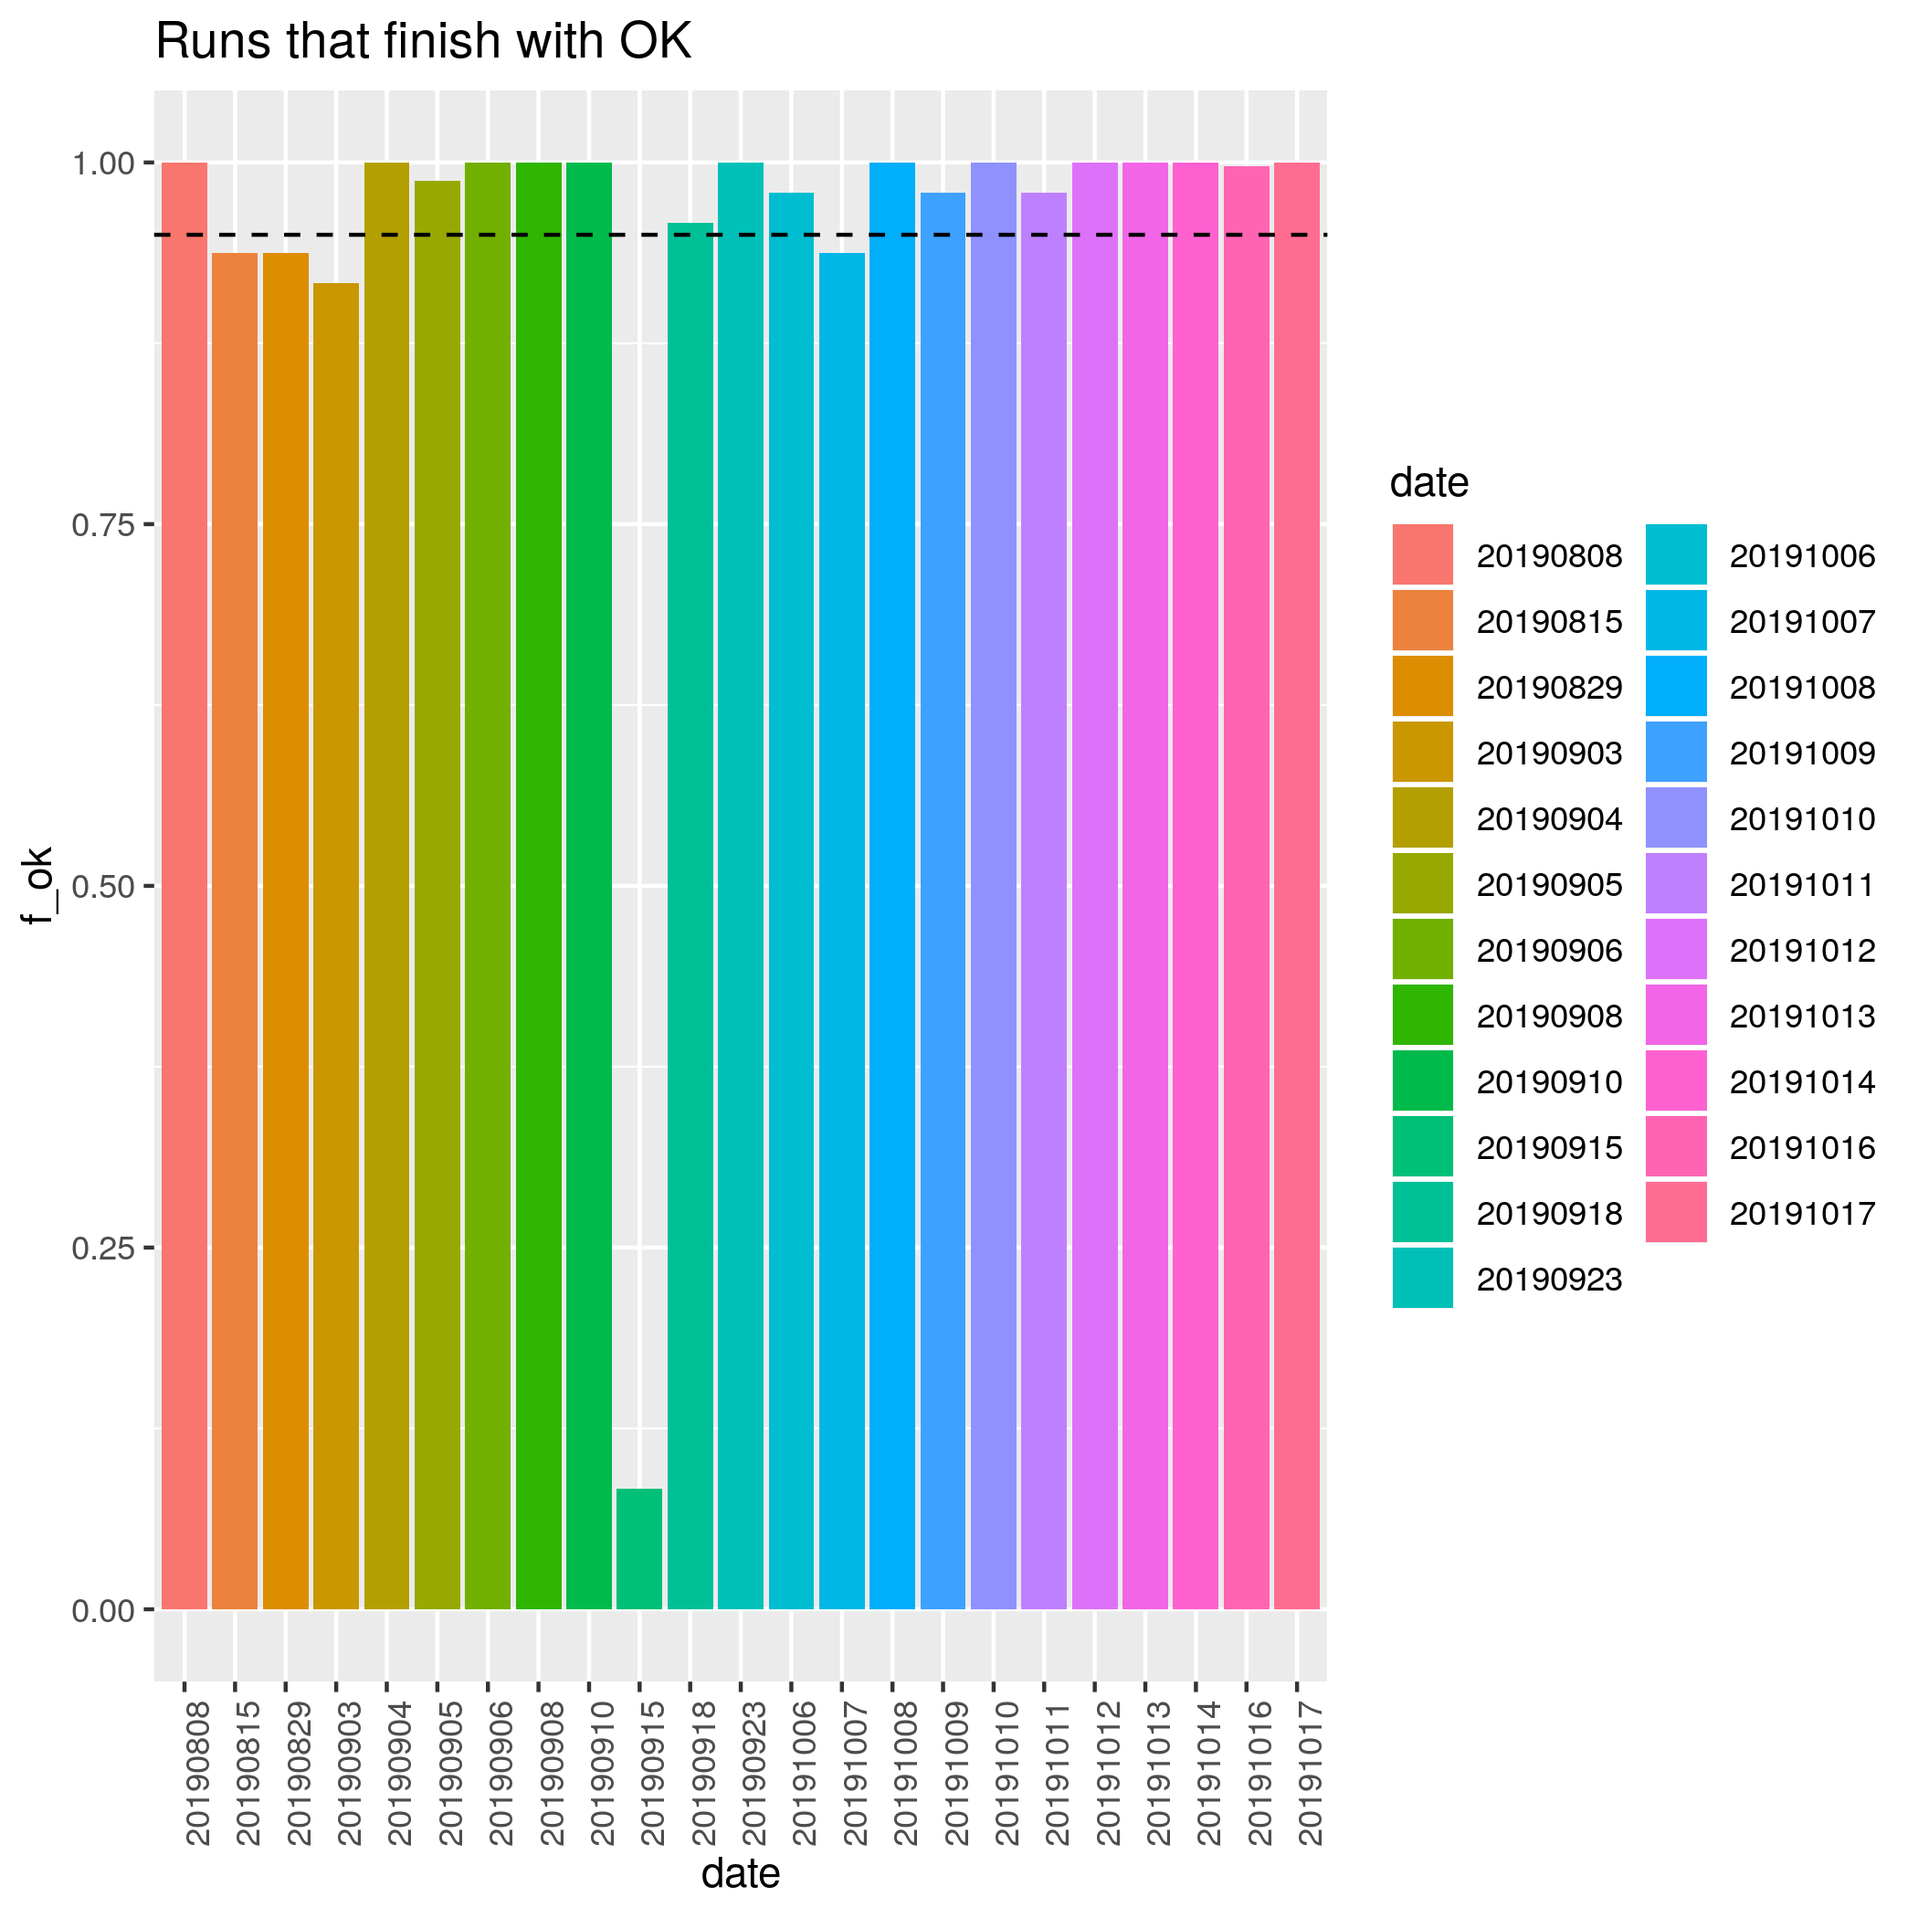
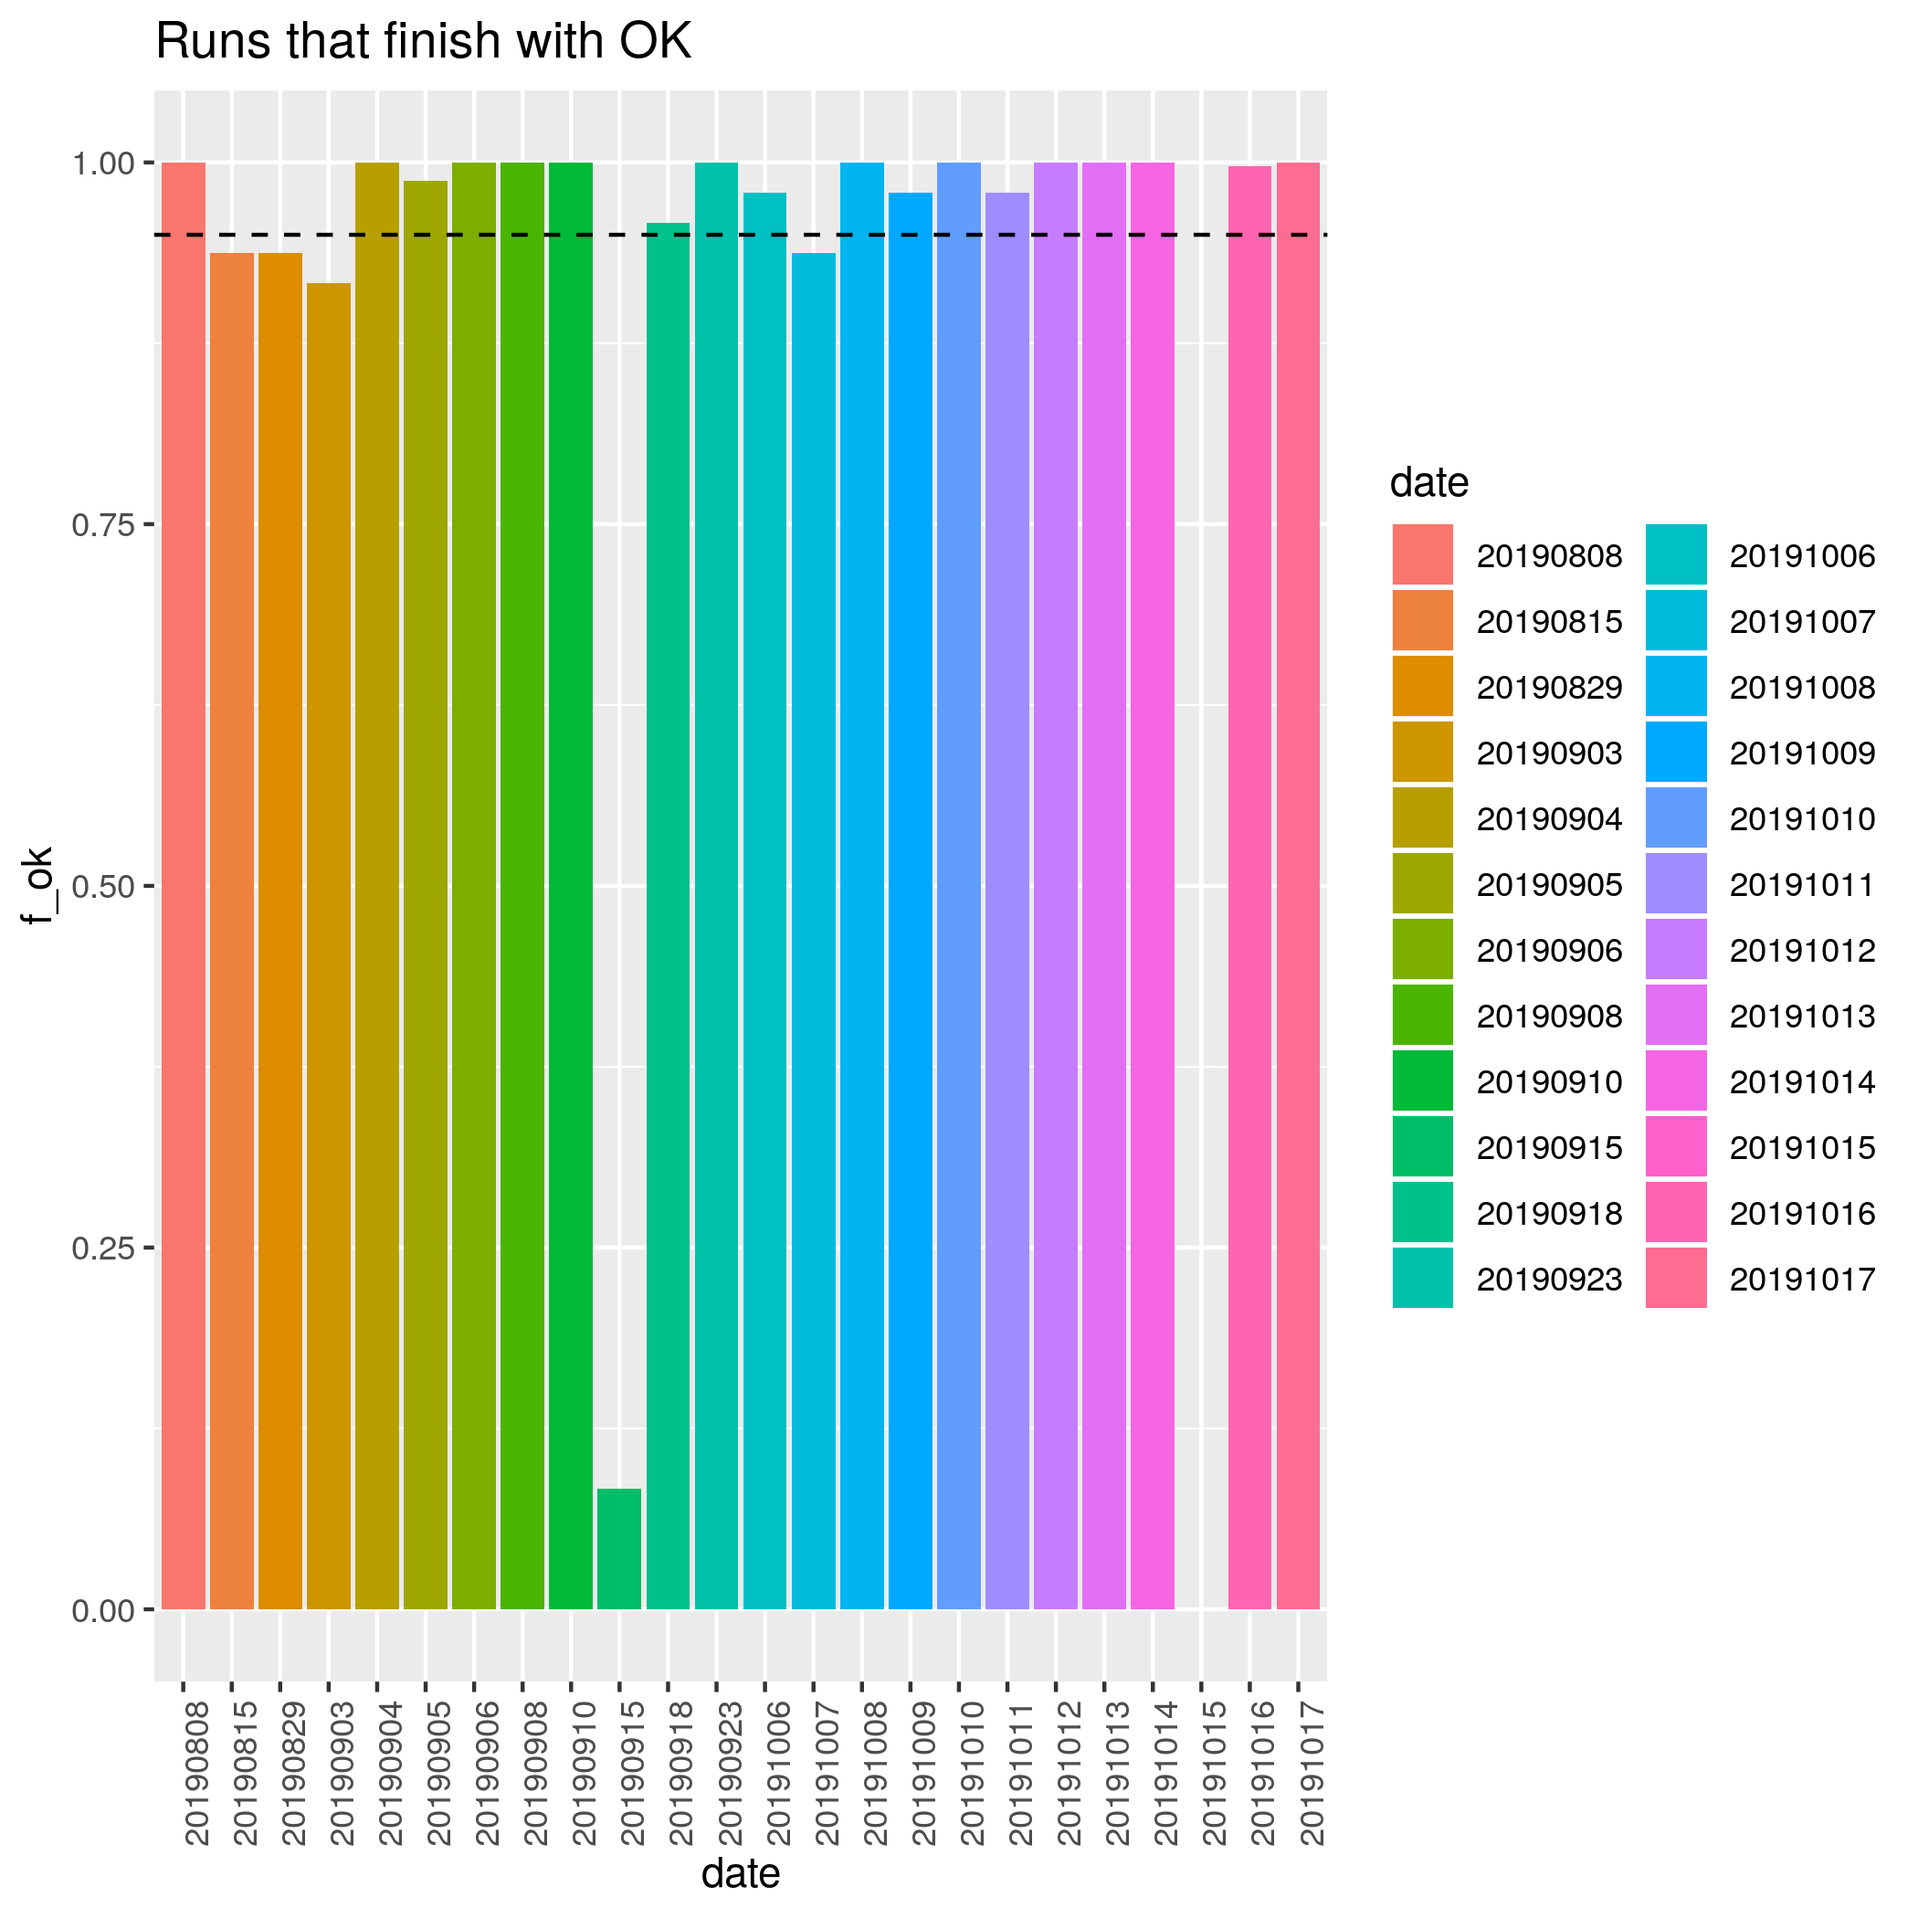
Add CSVs

diff --git a/overview.md b/overview.md
@@ -1,25 +1,25 @@
-|date     |      f_ok|    f_fail|  f_cancel| mean_runtime_hours| crown_age| n_candidates| mutation_rate| mcmc_chain_length| n_particles| n_replicates| mean_n_taxa| mean_ess| perc_low_ess| dna_length|nus           |
-|:--------|---------:|---------:|---------:|------------------:|---------:|------------:|-------------:|-----------------:|-----------:|------------:|-----------:|--------:|------------:|----------:|:-------------|
-|20190808 | 1.0000000| 0.0000000| 0.0000000|          0.6791088|         6|            3|     0.0833333|           1111000|           1|            2|   26.812500| 541.2969|     31.25000|       1000|1,1.5,2,2.5   |
-|20190815 | 0.9375000| 0.0000000| 0.0625000|          1.6287905|         7|            3|     0.0833333|           1111000|           1|            2|   56.750000| 463.0667|     36.66667|       1000|1,1.5,2,2.5   |
-|20190829 | 0.9375000| 0.0625000| 0.0000000|          3.3101975|         6|           40|     0.0833333|           1000000|           1|            2|   26.812500| 421.7337|     39.13043|       1000|1,1.5,2,2.5   |
-|20190903 | 0.9166667| 0.0000000| 0.0833333|          4.1418981|         6|           40|     0.0833333|           1000000|           1|            2|   26.812500| 429.4056|     37.77778|       1000|1,1.5,2,2.5   |
-|20190904 | 1.0000000| 0.0000000| 0.0000000|          0.6348322|         6|            4|     0.0833333|           1000000|           1|            2|   26.812500| 478.9740|     31.25000|       1000|1,1.5,2,2.5   |
-|20190905 | 0.9875000| 0.0125000| 0.0000000|          0.6264041|         6|            4|     0.0833333|           1000000|           1|           10|   28.333333| 502.4483|     28.90295|       1000|1,1.5,2,2.5   |
-|20190906 | 1.0000000| 0.0000000| 0.0000000|          0.3879977|         5|            4|     0.0833333|           1000000|           1|            2|   17.666667| 610.8542|     19.27083|       1000|1,1.5,2,2.5   |
-|20190908 | 1.0000000| 0.0000000| 0.0000000|          0.6437963|         6|            4|     0.0833333|           1000000|           1|            2|   26.812500| 478.9740|     31.25000|       1000|1,1.5,2,2.5   |
-|20190910 | 1.0000000| 0.0000000| 0.0000000|          0.1362500|         6|            4|     0.0833333|           1000000|           1|            2|   26.812500| 583.5312|     16.66667|        100|1,1.5,2,2.5   |
-|20190915 | 0.0833333| 0.9166667| 0.0000000|         16.9249306|         6|            4|     0.0833333|           1000000|          10|            2|   26.812500| 506.2708|     30.20833|       1000|1,1.5,2,2.5   |
-|20190918 | 0.9583333| 0.0208333| 0.0208333|          1.9823404|         7|            4|     0.0833333|           1000000|           1|            2|   56.750000| 392.3895|     43.15789|       1000|1,1.5,2,2.5   |
-|20190923 | 1.0000000| 0.0000000| 0.0000000|          2.9822315|         7|            4|     0.0833333|           1000000|          10|            2|   20.700000| 543.0250|     28.33333|       1000|0,0.5,1,1.5,2 |
-|20191006 | 0.9791667| 0.0208333| 0.0000000|          0.3187825|         7|            4|     0.0833333|           1000000|           1|            2|   29.687500| 565.6211|     24.73684|        500|0,0.5,1,2     |
-|20191007 | 0.9375000| 0.0416667| 0.0208333|          1.0499155|         7|            4|     0.0833333|           1000000|           1|            2|   29.687500| 509.5368|     33.15789|       1000|0,0.5,1,2     |
-|20191008 | 1.0000000| 0.0000000| 0.0000000|          0.0516204|         1|            4|     0.0833333|           1000000|           1|            2|    2.645833| 705.4948|     18.75000|        500|0,0.5,1,2     |
-|20191009 | 0.9791667| 0.0208333| 0.0000000|          0.0585993|         2|            4|     0.0833333|           1000000|           1|            2|    3.687500| 690.3594|     18.22917|        500|0,0.5,1,2     |
-|20191010 | 1.0000000| 0.0000000| 0.0000000|          0.0721354|         3|            4|     0.0833333|           1000000|           1|            2|    5.020833| 633.2552|     25.52083|        500|0,0.5,1,2     |
-|20191011 | 0.9791667| 0.0208333| 0.0000000|          0.0993085|         4|            4|     0.0833333|           1000000|           1|            2|    7.437500| 679.7865|     16.66667|        500|0,0.5,1,2     |
-|20191012 | 1.0000000| 0.0000000| 0.0000000|          0.1290567|         5|            4|     0.0833333|           1000000|           1|            2|   10.083333| 637.8073|     21.35417|        500|0,0.5,1,2     |
-|20191013 | 1.0000000| 0.0000000| 0.0000000|          0.1303241|         5|            4|     0.0833333|           1000000|           1|            2|   10.083333| 637.8073|     21.35417|        500|0,0.5,1,2     |
-|20191014 | 1.0000000| 0.0000000| 0.0000000|          0.3317778|         8|            4|     0.0833333|           1000000|           1|            2|   24.125000| 487.3813|     29.37500|        500|0,0.5,1,1.5   |
-|20191016 | 0.9975000| 0.0025000| 0.0000000|          0.2959475|         6|            4|     0.0833333|          10000000|           1|            2|   14.225000| 815.8000|      2.50000|       1000|0,0.5,1,1.5   |
-|20191017 | 1.0000000| 0.0000000| 0.0000000|          0.3051597|         6|            4|     0.0833333|           1000000|           1|           20|   13.697500| 577.5881|     24.68750|       1000|0,0.5,1,1.5   |
+|date     | mean_runtime_hours|      f_ok|    f_fail|  f_cancel| crown_age| n_candidates| mutation_rate| mcmc_chain_length| n_particles| n_replicates| mean_n_taxa| mean_ess| perc_low_ess| dna_length|nus           |
+|:--------|------------------:|---------:|---------:|---------:|---------:|------------:|-------------:|-----------------:|-----------:|------------:|-----------:|--------:|------------:|----------:|:-------------|
+|20190808 |          0.6791088| 1.0000000| 0.0000000| 0.0000000|         6|            3|     0.0833333|           1111000|           1|            2|   26.812500| 541.2969|     31.25000|       1000|1,1.5,2,2.5   |
+|20190815 |          1.6287905| 0.9375000| 0.0000000| 0.0625000|         7|            3|     0.0833333|           1111000|           1|            2|   56.750000| 463.0667|     36.66667|       1000|1,1.5,2,2.5   |
+|20190829 |          3.3101975| 0.9375000| 0.0625000| 0.0000000|         6|           40|     0.0833333|           1000000|           1|            2|   26.812500| 421.7337|     39.13043|       1000|1,1.5,2,2.5   |
+|20190903 |          4.1418981| 0.9166667| 0.0000000| 0.0833333|         6|           40|     0.0833333|           1000000|           1|            2|   26.812500| 429.4056|     37.77778|       1000|1,1.5,2,2.5   |
+|20190904 |          0.6348322| 1.0000000| 0.0000000| 0.0000000|         6|            4|     0.0833333|           1000000|           1|            2|   26.812500| 478.9740|     31.25000|       1000|1,1.5,2,2.5   |
+|20190905 |          0.6264041| 0.9875000| 0.0125000| 0.0000000|         6|            4|     0.0833333|           1000000|           1|           10|   28.333333| 502.4483|     28.90295|       1000|1,1.5,2,2.5   |
+|20190906 |          0.3879977| 1.0000000| 0.0000000| 0.0000000|         5|            4|     0.0833333|           1000000|           1|            2|   17.666667| 610.8542|     19.27083|       1000|1,1.5,2,2.5   |
+|20190908 |          0.6437963| 1.0000000| 0.0000000| 0.0000000|         6|            4|     0.0833333|           1000000|           1|            2|   26.812500| 478.9740|     31.25000|       1000|1,1.5,2,2.5   |
+|20190910 |          0.1362500| 1.0000000| 0.0000000| 0.0000000|         6|            4|     0.0833333|           1000000|           1|            2|   26.812500| 583.5312|     16.66667|        100|1,1.5,2,2.5   |
+|20190915 |         16.9249306| 0.0833333| 0.9166667| 0.0000000|         6|            4|     0.0833333|           1000000|          10|            2|   26.812500| 506.2708|     30.20833|       1000|1,1.5,2,2.5   |
+|20190918 |          1.9823404| 0.9583333| 0.0208333| 0.0208333|         7|            4|     0.0833333|           1000000|           1|            2|   56.750000| 392.3895|     43.15789|       1000|1,1.5,2,2.5   |
+|20190923 |          2.9822315| 1.0000000| 0.0000000| 0.0000000|         7|            4|     0.0833333|           1000000|          10|            2|   20.700000| 543.0250|     28.33333|       1000|0,0.5,1,1.5,2 |
+|20191006 |          0.3187825| 0.9791667| 0.0208333| 0.0000000|         7|            4|     0.0833333|           1000000|           1|            2|   29.687500| 565.6211|     24.73684|        500|0,0.5,1,2     |
+|20191007 |          1.0499155| 0.9375000| 0.0416667| 0.0208333|         7|            4|     0.0833333|           1000000|           1|            2|   29.687500| 509.5368|     33.15789|       1000|0,0.5,1,2     |
+|20191008 |          0.0516204| 1.0000000| 0.0000000| 0.0000000|         1|            4|     0.0833333|           1000000|           1|            2|    2.645833| 705.4948|     18.75000|        500|0,0.5,1,2     |
+|20191009 |          0.0585993| 0.9791667| 0.0208333| 0.0000000|         2|            4|     0.0833333|           1000000|           1|            2|    3.687500| 690.3594|     18.22917|        500|0,0.5,1,2     |
+|20191010 |          0.0721354| 1.0000000| 0.0000000| 0.0000000|         3|            4|     0.0833333|           1000000|           1|            2|    5.020833| 633.2552|     25.52083|        500|0,0.5,1,2     |
+|20191011 |          0.0993085| 0.9791667| 0.0208333| 0.0000000|         4|            4|     0.0833333|           1000000|           1|            2|    7.437500| 679.7865|     16.66667|        500|0,0.5,1,2     |
+|20191012 |          0.1290567| 1.0000000| 0.0000000| 0.0000000|         5|            4|     0.0833333|           1000000|           1|            2|   10.083333| 637.8073|     21.35417|        500|0,0.5,1,2     |
+|20191013 |          0.1303241| 1.0000000| 0.0000000| 0.0000000|         5|            4|     0.0833333|           1000000|           1|            2|   10.083333| 637.8073|     21.35417|        500|0,0.5,1,2     |
+|20191014 |          0.3317778| 1.0000000| 0.0000000| 0.0000000|         8|            4|     0.0833333|           1000000|           1|            2|   24.125000| 487.3813|     29.37500|        500|0,0.5,1,1.5   |
+|20191016 |          0.2959475| 0.9975000| 0.0025000| 0.0000000|         6|            4|     0.0833333|          10000000|           1|            2|   14.225000| 815.8000|      2.50000|       1000|0,0.5,1,1.5   |
+|20191017 |          0.3051597| 1.0000000| 0.0000000| 0.0000000|         6|            4|     0.0833333|           1000000|           1|           20|   13.697500| 577.5881|     24.68750|       1000|0,0.5,1,1.5   |
